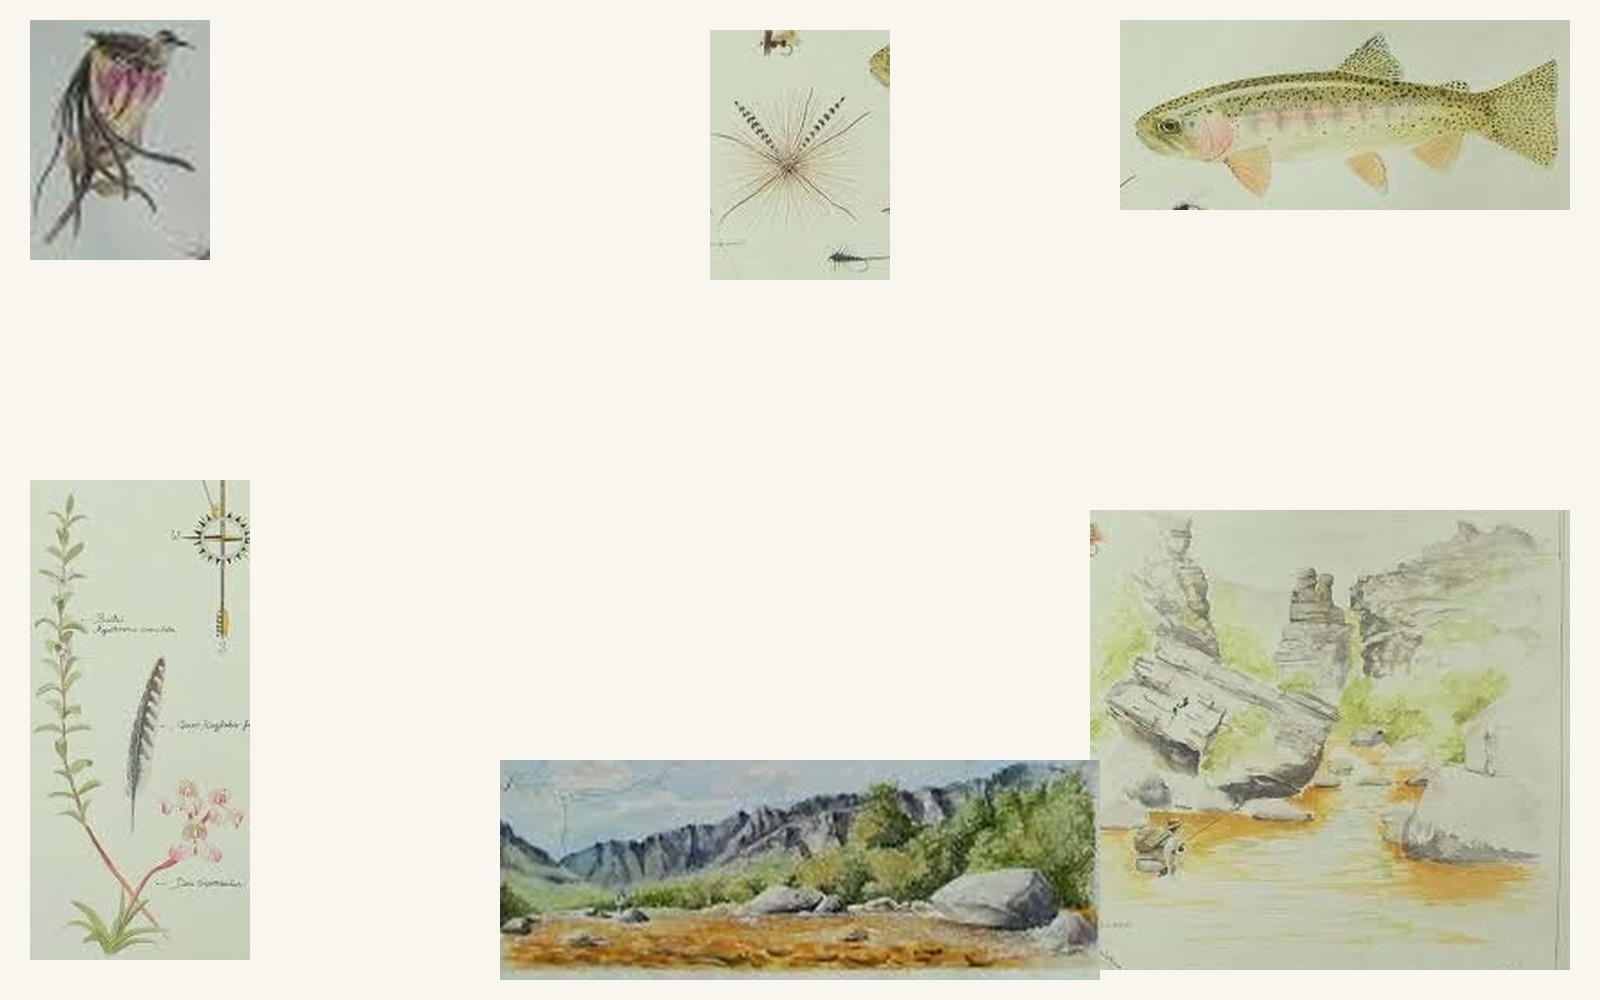
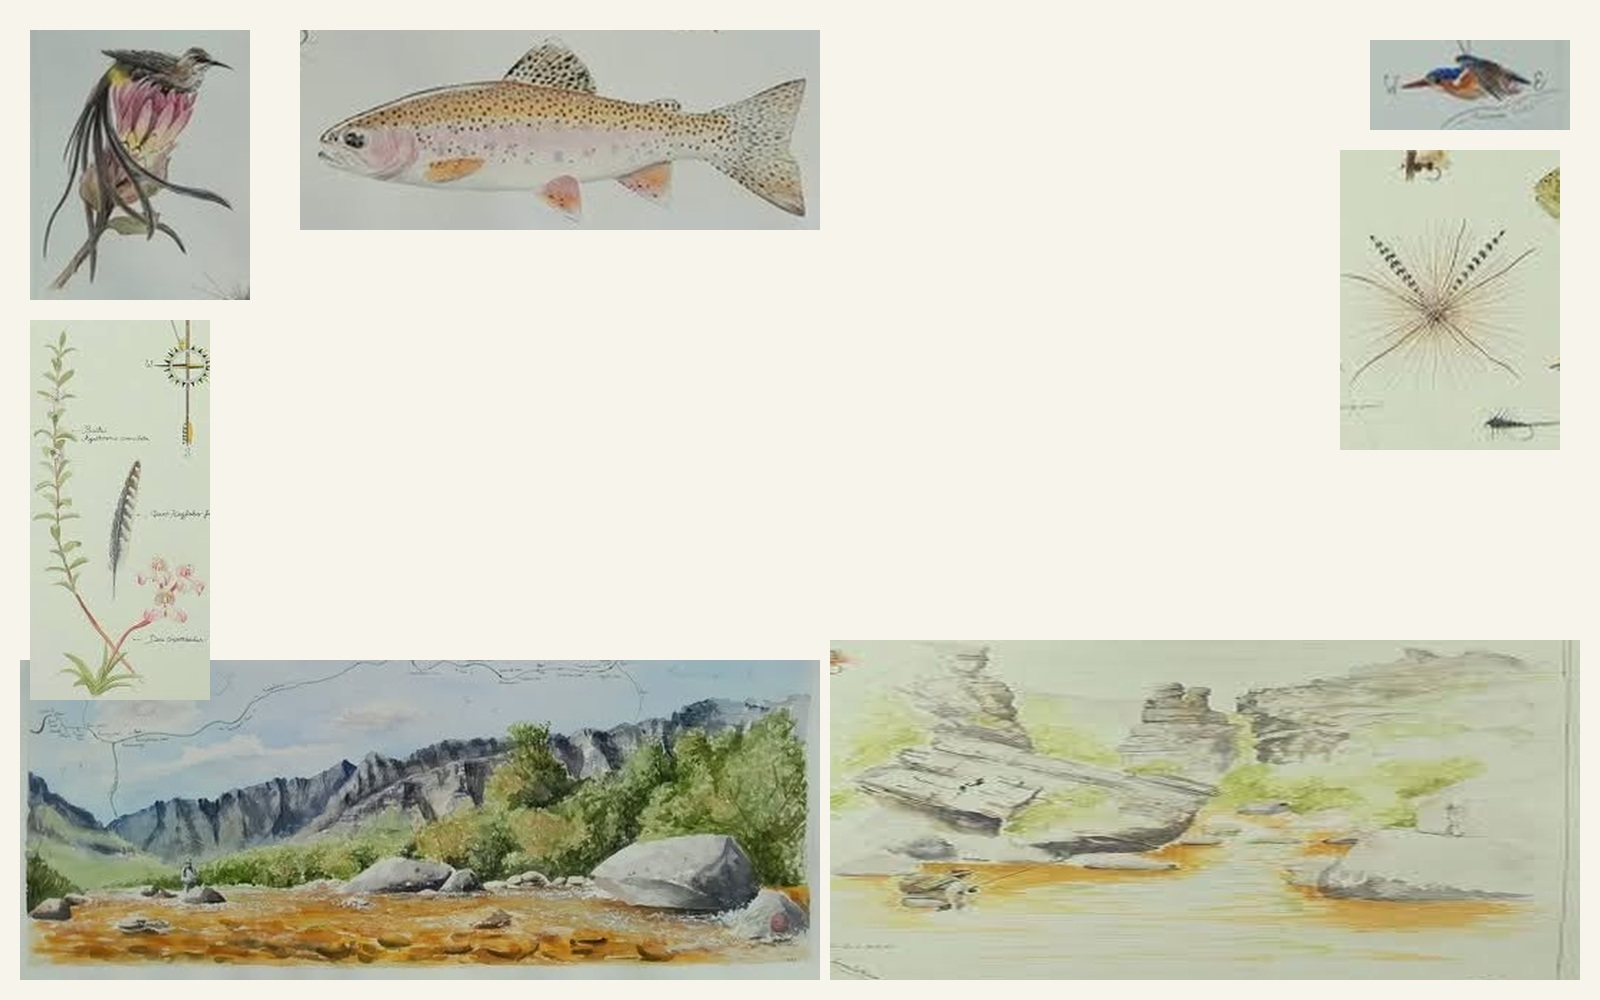
Incorporate full-resolution Smalblaar watercolor with Malachite Kingfisher, Sugarbird on Protea, Trout, and Du Toitskloof ridge

diff --git a/static/index.html b/static/index.html
@@ -287,6 +287,13 @@
             </div>
           </div>
           <div class="vignette-item">
+            <img src="art_kingfisher.png" alt="Malachite Kingfisher" class="vignette-img">
+            <div class="vignette-meta">
+              <strong>Malachite Kingfisher</strong>
+              <span>Native Stream Resident</span>
+            </div>
+          </div>
+          <div class="vignette-item">
             <img src="art_disa.png" alt="Red Disa Orchid" class="vignette-img">
             <div class="vignette-meta">
               <strong>Red Disa Orchid</strong>
